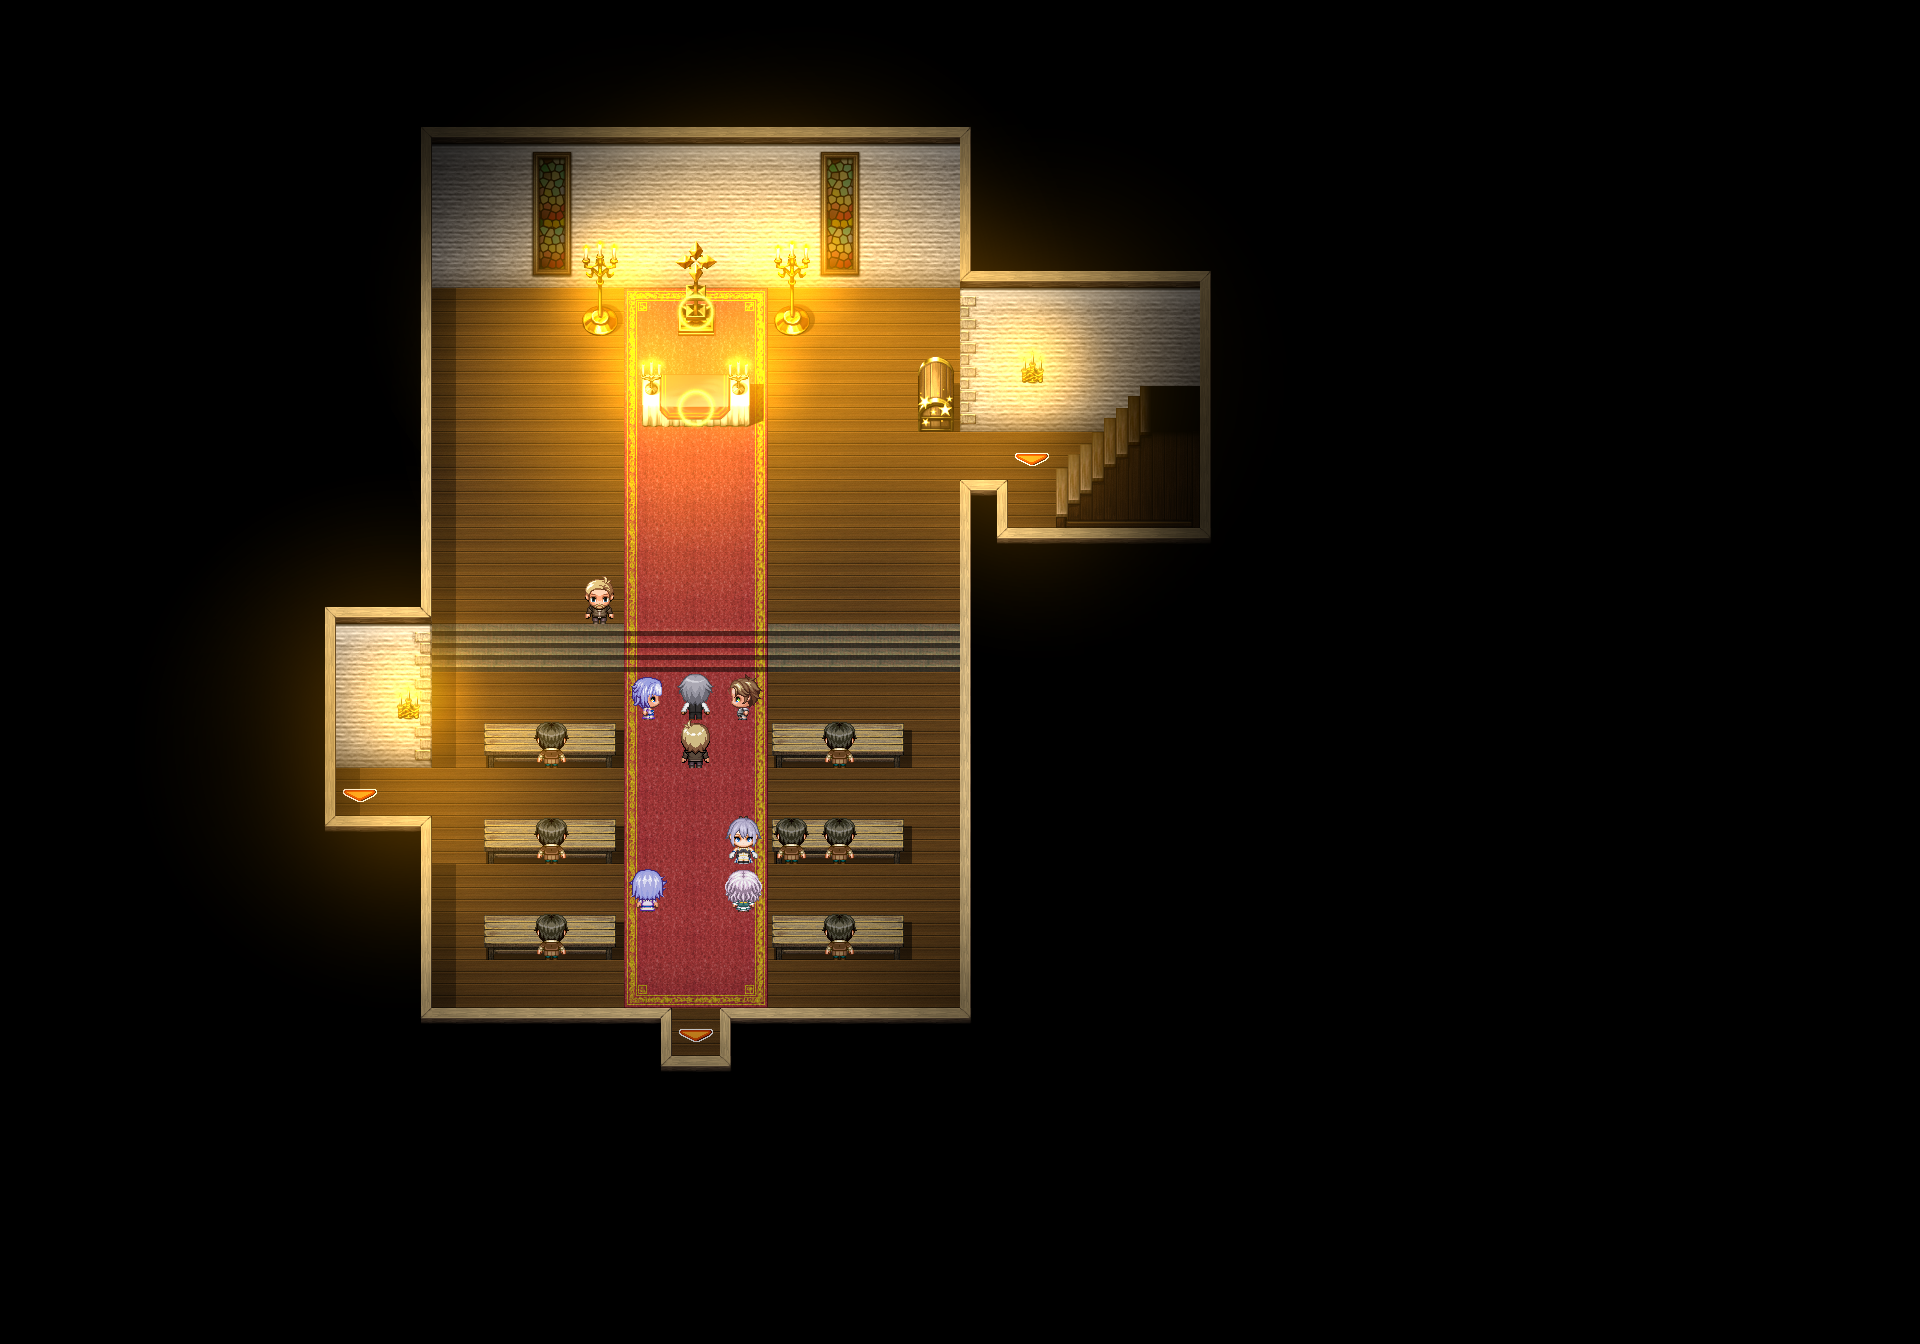
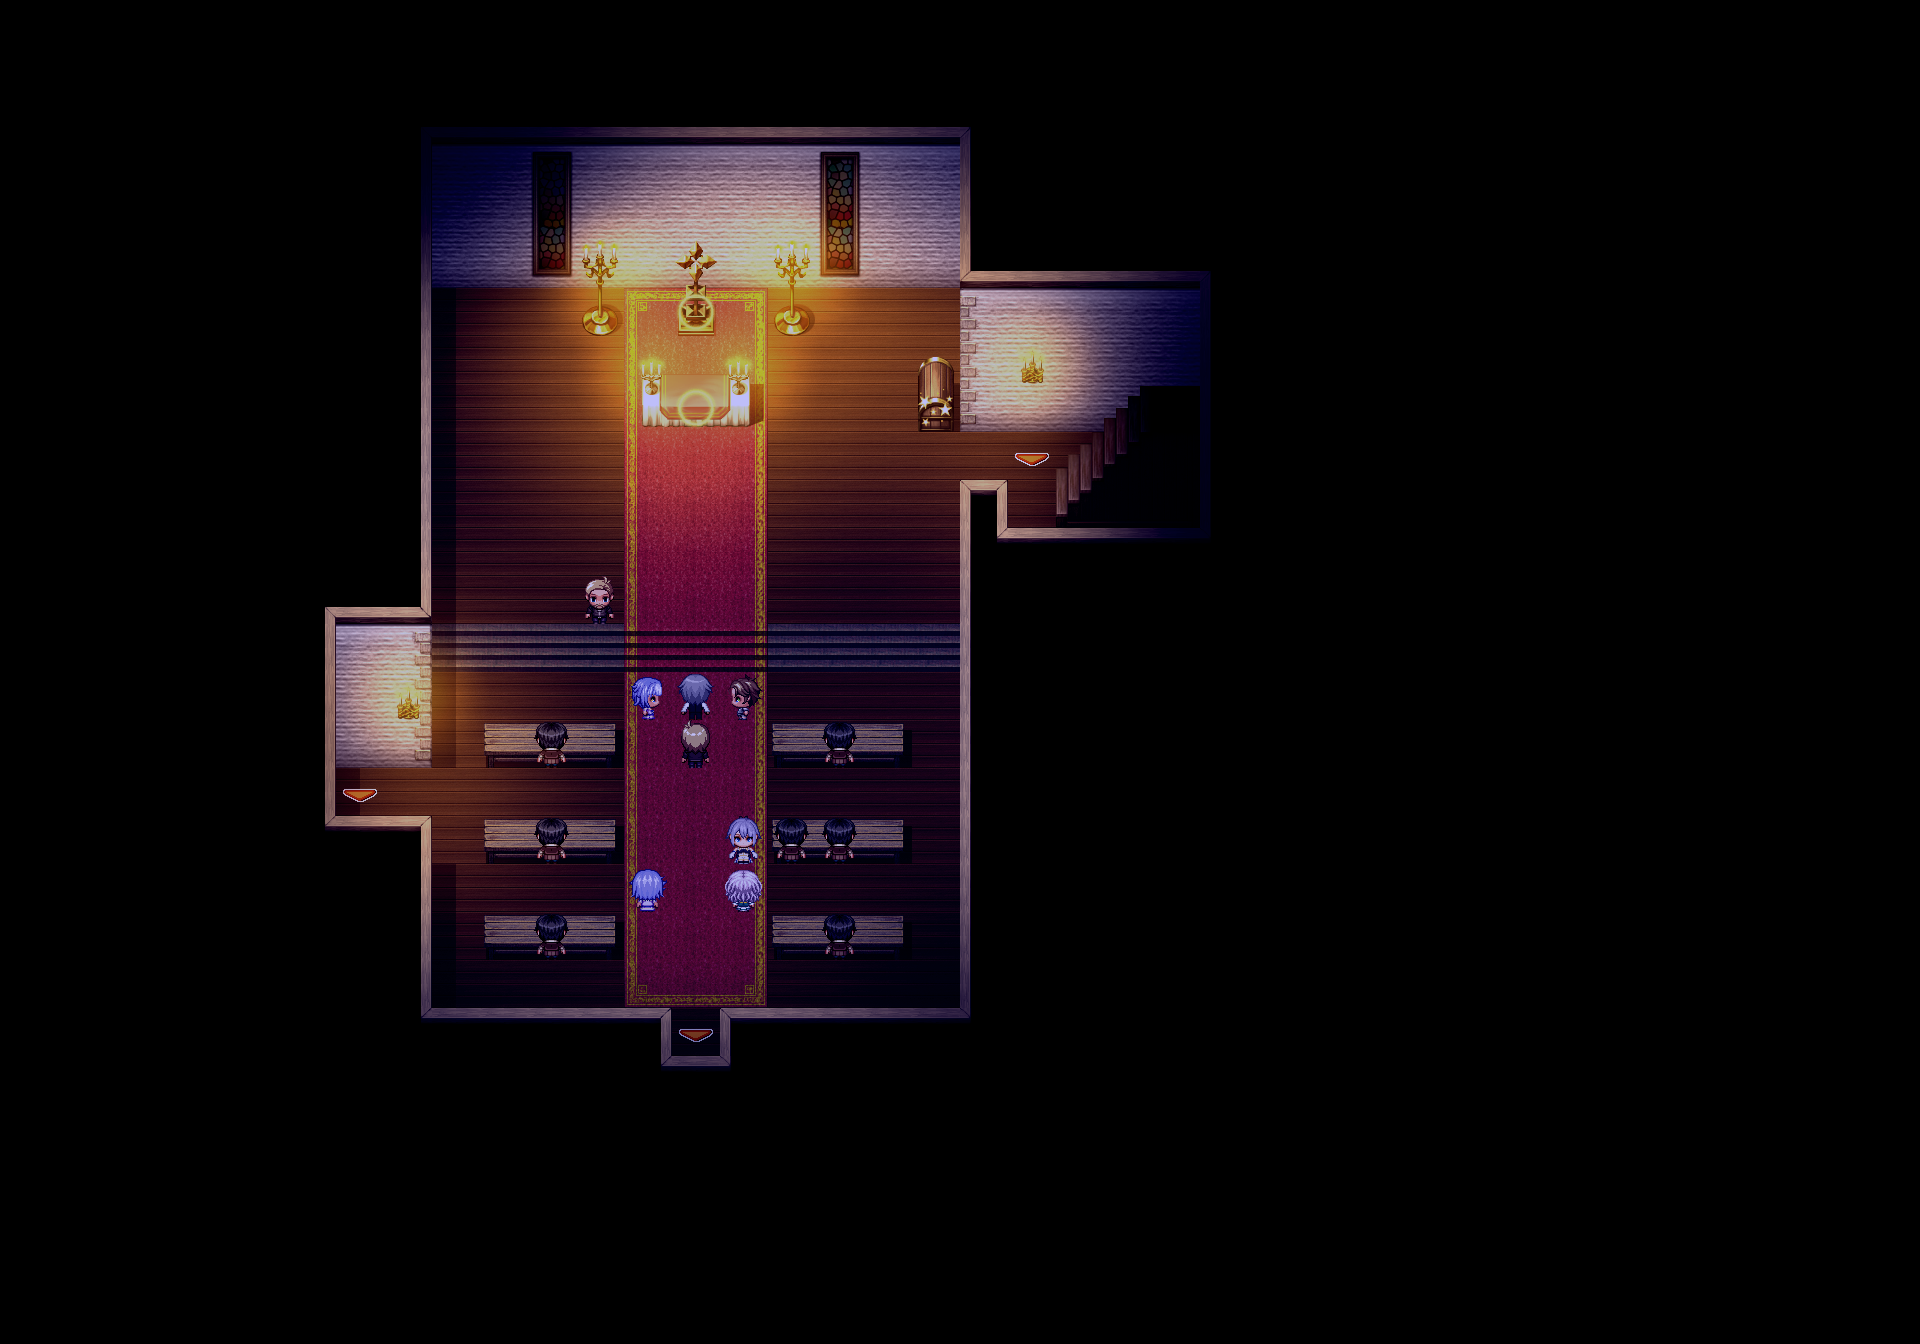
fix: PLM 合成不生效 + 插件标签双逗号 + CLI 项目ID查找
- ParallaxLayer: 修复双逗号语法错误导致插件未加载
- render-maps: CLI 模式（无 PROJECT_ID）不过滤 project: 标签
- render-maps: 从 projects.json 自动查项目数字 ID
- 展示图更新为含正确 PLM+色调的版本

Changed region(s): [[0.125, 0.0625, 0.6562, 0.8125]]

diff --git a/scripts/render-maps.js b/scripts/render-maps.js
@@ -23,7 +23,7 @@ const PLUGINS = [];
 const HOOKS = {};  // { 'mapStart': [plugin, ...] } — 按钩子分组缓存
 
 // 检查插件是否对当前项目生效
-function pluginMatchesProject(p, projectName) {
+function pluginMatchesProject(p, projectName, projectId) {
   if (!p.tags || p.tags.length === 0) return true;
   var hasProject = false;
   for (var ti = 0; ti < p.tags.length; ti++) {
@@ -31,14 +31,14 @@ function pluginMatchesProject(p, projectName) {
     if (t === 'global') return true;
     if (t.indexOf('project:') === 0) {
       hasProject = true;
-      // project: 后跟项目名——完全匹配或在项目名前缀匹配
       var pn = t.slice(8).trim();
-      if (pn === projectName) return true;
+      // CLI 模式（无 projectId）不过滤 project: 标签
+      if (!projectId) return true;
+      // 支持按数字 ID 或目录名匹配
+      if (pn === projectName || pn === projectId) return true;
     }
   }
-  // 有 project: 标签但都不匹配 → 跳过
   if (hasProject) return false;
-  // 无 project: 标签也无 global → 视为全局
   return true;
 }
 
@@ -65,11 +65,11 @@ function pluginMatchesProject(p, projectName) {
   });
 })();
 
-// 按项目名过滤 HOOKS（只保留匹配项目的插件）
-function loadPluginsForProject(projectName) {
+// 按项目名/ID 过滤 HOOKS（只保留匹配项目的插件）
+function loadPluginsForProject(projectName, projectId) {
   Object.keys(HOOKS).forEach(function(hook) {
     HOOKS[hook] = HOOKS[hook].filter(function(p) {
-      return pluginMatchesProject(p, projectName);
+      return pluginMatchesProject(p, projectName, projectId);
     });
   });
 }
@@ -118,11 +118,18 @@ global['SWITCH_31'] = process.env.SWITCH_31 === '1' || false;
 
 // 项目目录：按项目名分开放，避免混杂
 const PROJECT_NAME = process.env.PROJECT_NAME || path.basename(GAME_DIR).replace(/[\s_]+$/, '');
-const PROJECT_ID = process.env.PROJECT_ID || '';
 const PROJECT_DIR = path.join(path.resolve(__dirname, '..', 'maps', 'projects'), PROJECT_NAME);
 
-// 按项目名过滤插件（只加载 global 或 project:当前项目 的插件）
-loadPluginsForProject(PROJECT_ID || PROJECT_NAME);
+// 从 projects.json 查找项目数字 ID（未通过环境变量提供时自动查表）
+const _pj = (function() {
+  var p = path.join(path.resolve(__dirname, '..', 'maps', 'projects'), 'projects.json');
+  if (!fs.existsSync(p)) return {};
+  try { return JSON.parse(fs.readFileSync(p, 'utf8')); } catch(e) { return {}; }
+})();
+const PROJECT_ID = process.env.PROJECT_ID || Object.keys(_pj).find(function(k) { return _pj[k].name === PROJECT_NAME; }) || '';
+
+// 按项目名/ID 过滤插件（只加载 global 或 project:当前项目 的插件）
+loadPluginsForProject(PROJECT_NAME, PROJECT_ID);
 const TS_DIR        = PROJECT_DIR + '/tilesets/';
 const OUT_DIR       = PROJECT_DIR + '/maps/';
 const PARALLAX_DIR  = PROJECT_DIR + '/parallax/';

diff --git a/scripts/plugins/ParallaxLayer.js b/scripts/plugins/ParallaxLayer.js
@@ -20,7 +20,7 @@ module.exports = {
   name: 'ParallaxLayer',
   description: '<PLM:file> 视差图层（可开关）',
   hook: 'postRender',
-  tags: ['PLM', 'PLM_Blend', 'project:2'],,
+  tags: ['PLM', 'PLM_Blend', 'project:2'],
 
   process: async function(ctx) {
     var gameDir = ctx.gameDir;
@@ -101,8 +101,10 @@ module.exports = {
             });
           }
           if (compositeOps.length > 0 && ctx.outputPath) {
-            var imgBuf = await sharp(ctx.outputPath).composite(compositeOps).png().toBuffer();
-            fs.writeFileSync(ctx.outputPath, imgBuf);
+            try {
+              var imgBuf = await sharp(ctx.outputPath).composite(compositeOps).png().toBuffer();
+              fs.writeFileSync(ctx.outputPath, imgBuf);
+                          } catch(ce2) { console.error('[PLM DEBUG] composite ERROR:', ce2.message); }
           }
         } catch(ce) {
           console.error("[ParallaxLayer] PLM composite failed:", ce.message);

diff --git a/scripts/plugins/MapTone.js b/scripts/plugins/MapTone.js
@@ -11,7 +11,7 @@ module.exports = {
   name: 'MapTone',
   description: 'CE#16 全局色调模拟（昼/夕方/夜，查看器专用）',
   hook: 'mapStart',
-  tags: ['MAPTYPE', '色调', 'CE16', 'project:2'],,
+  tags: ['MAPTYPE', '色调', 'CE16', 'project:2'],
 
   process: function(/* unused */) {
     // 查看器端执行，渲染管线无操作

diff --git a/scripts/plugins/NightRender.js b/scripts/plugins/NightRender.js
@@ -10,7 +10,7 @@ module.exports = {
   name: 'NightRender',
   description: '自动检测并渲染夜间版地图',
   hook: 'mapEnd',
-  tags: ['night', 'pipeline', 'global'],,
+  tags: ['night', 'pipeline', 'global'],
   scripts: [
     { name: 'night', file: 'scripts/render-night-maps.js', label: '夜间地图' },
   ],

diff --git a/scripts/plugins/TileTime.js b/scripts/plugins/TileTime.js
@@ -13,7 +13,7 @@ module.exports = {
   name: 'TileTime',
   description: '根据时段替换地图 tile（窗户昼夜变化）',
   hook: 'mapStart',
-  tags: ['TIME_VAR', 'tile', 'project:2'],,
+  tags: ['TIME_VAR', 'tile', 'project:2'],
 
   process: function(ctx) {
     var map = ctx.map;

diff --git a/scripts/plugins/CGShift.js b/scripts/plugins/CGShift.js
@@ -7,7 +7,7 @@ module.exports = {
   name: 'CGShift',
   description: '<CGシフト:A,X,Y> 像素偏移',
   hook: 'eventSprite',
-  tags: ['CGシフト', 'project:2'],,
+  tags: ['CGシフト', 'project:2'],
 
   process: function(ev, ctx) {
     if (!ev.note) return;

diff --git a/scripts/plugins/TemplateEvent.js b/scripts/plugins/TemplateEvent.js
@@ -42,7 +42,7 @@ module.exports = {
   name: 'TemplateEvent',
   description: '模拟 <TE:名称> 模板事件替换',
   hook: 'beforeSprite',
-  tags: ['TE', 'project:2'],,
+  tags: ['TE', 'project:2'],
 
   process: function(ev, ctx) {
     if (!ev.note) return;
